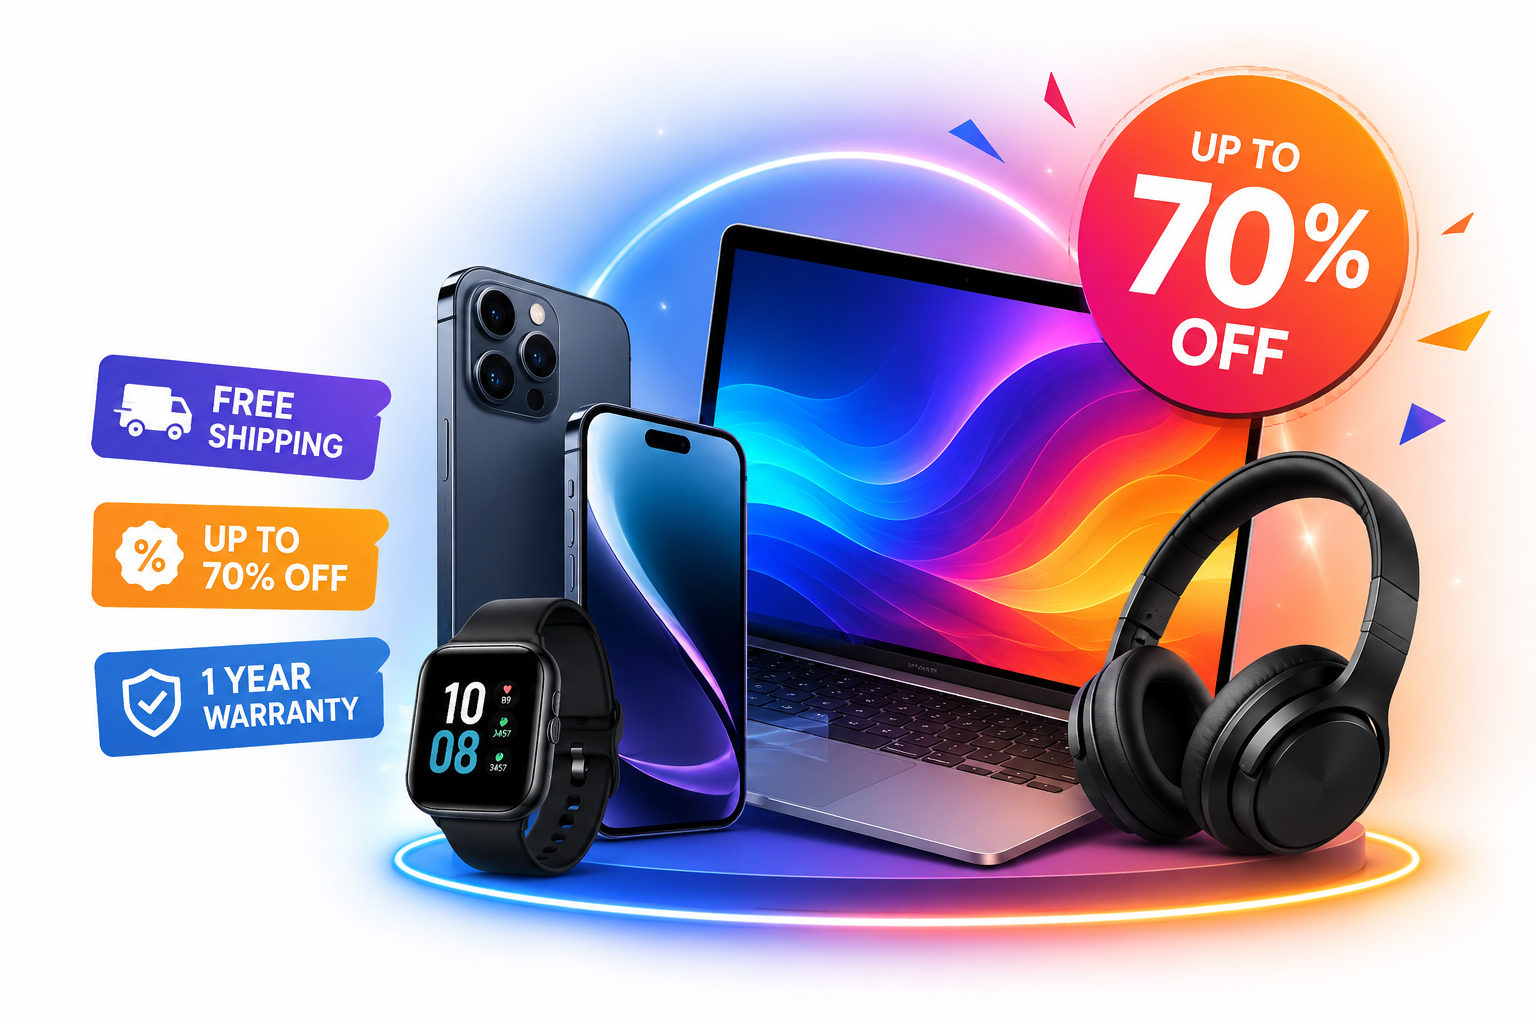
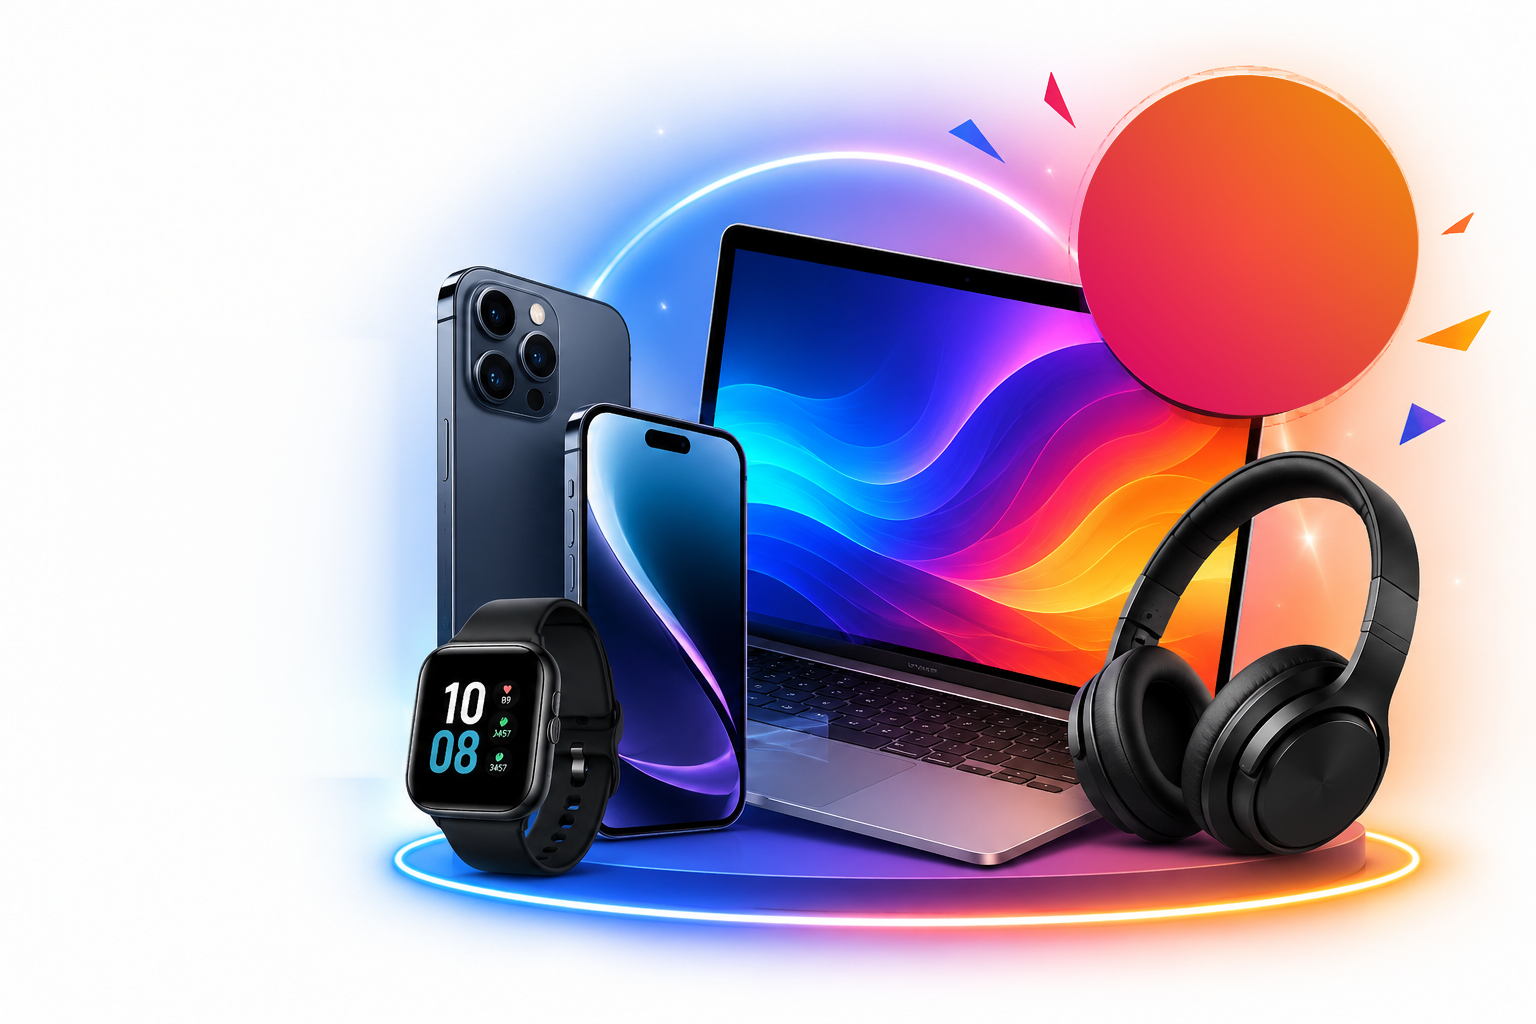
fix: remove unsupported electronics marketing claims
Customer-facing promotions claimed things no code backs: a % off, a time
limit, an active sale, being the "biggest", or free shipping on every
order. No sale, time window or guarantee exists in the app.

Electronics banner (PromoBanner defaults):
- "⚡ LIMITED TIME OFFER" -> "⚡ ELECTRONICS"
- "Electronics Mega Sale" -> "Electronics Deals"
- "Up to 70% OFF on Smartphones, Laptops, Accessories & More." ->
  "Shop great deals on smartphones, laptops, accessories & more."
- electronics-banner.png: removed the printed "UP TO 70% OFF",
  "FREE SHIPPING" and "1 YEAR WARRANTY". Same 1536x1024 size and
  products; the "70% OFF" circle is now a plain circle with no text.

Navratri banner (HomePage):
- "Navratri Festive Sale" -> "Celebrate Navratri with YOMICO"
- "Celebrate. Shop. Save." -> "Shop festive favourites across the store."

Best Deals (FlashSale):
- "🔥 BIGGEST DISCOUNTS ON YOMICO" -> "🔥 GREAT DEALS ON YOMICO"
- "🚚 Free Shipping • Secure Payment • Easy Returns" ->
  "🚚 Delivery Available • Secure Payment • Easy Returns"
  (shipping is free only above a threshold, not on every order)

Product page (ProductPageClient):
- "🔥 Limited Time Deal" -> "🔥 Best Deal" (no sale end time exists)

Wording only. Links, images, prices, MRP, discount maths and the
/search?minDiscount=40 filter are unchanged. Out of scope and unchanged:
the 40% Mobiles card, "Save 40% or more off MRP", YOMICO10 and coupons,
search discount filters, and the unused components/Hero.tsx.
[…]

diff --git a/components/home/FlashSale.jsx b/components/home/FlashSale.jsx
@@ -48,7 +48,7 @@ return (
               {/* One badge. This copy was rendered twice — once here and once
                   as a rotated badge in the corner — inside the same card. */}
               <span className="inline-block bg-white text-red-600 px-4 py-1 rounded-full text-sm font-bold shadow-lg mb-4">
-  🔥 BIGGEST DISCOUNTS ON YOMICO
+  🔥 GREAT DEALS ON YOMICO
 </span>
              <h2 className="text-2xl sm:text-3xl md:text-4xl font-extrabold leading-tight">
                 🏷 Best Deals
@@ -99,7 +99,7 @@ transition-all
   View All Deals
 </Link>
                 <p className="hidden sm:block mt-4 text-sm font-semibold text-white">
-  🚚 Free Shipping • Secure Payment • Easy Returns
+  🚚 Delivery Available • Secure Payment • Easy Returns
 </p>
             </div>
              </div>

diff --git a/components/home/HomePage.tsx b/components/home/HomePage.tsx
@@ -104,13 +104,13 @@ export default function Home() {
 </section>
 
       {/* Navratri festive banner — reuses the existing reusable PromoBanner
-          component (same one used for the Electronics sale further down)
+          component (same one used for the Electronics deals banner further down)
           instead of a new bespoke banner. Replaces the former 15 August /
           Independence Day launch banner in this slot. */}
       <PromoBanner
         badge="NAVRATRI SPECIAL"
-        title="Navratri Festive Sale"
-        subtitle="Celebrate. Shop. Save."
+        title="Celebrate Navratri with YOMICO"
+        subtitle="Shop festive favourites across the store."
         image="/navratri-banner.svg"
         button1="Explore Offers"
         link1="/store"

diff --git a/components/home/PromoBanner.jsx b/components/home/PromoBanner.jsx
@@ -6,12 +6,14 @@ import { motion } from "framer-motion";
 
 export default function PromoBanner({
 
-  badge = "⚡ LIMITED TIME OFFER",
+  // Generic wording only: there is no sale start/end or promotion logic
+  // behind this banner, so it must not promise a % off or a time limit.
+  badge = "⚡ ELECTRONICS",
 
-  title = "Electronics Mega Sale",
+  title = "Electronics Deals",
 
   subtitle =
-    "Up to 70% OFF on Smartphones, Laptops, Accessories & More.",
+    "Shop great deals on smartphones, laptops, accessories & more.",
 
   image = "/banners/electronics-banner.png",
 

diff --git a/app/product/[id]/ProductPageClient.tsx b/app/product/[id]/ProductPageClient.tsx
@@ -1068,7 +1068,7 @@ if (product.stock > 20) {
   mb-5
   "
 >
-  🔥 Limited Time Deal
+  🔥 Best Deal
 </div>
                 {/* PRICE */}
  <div className="mb-6 bg-gradient-to-r from-green-50 to-emerald-50 border border-green-100 rounded-3xl p-5">
